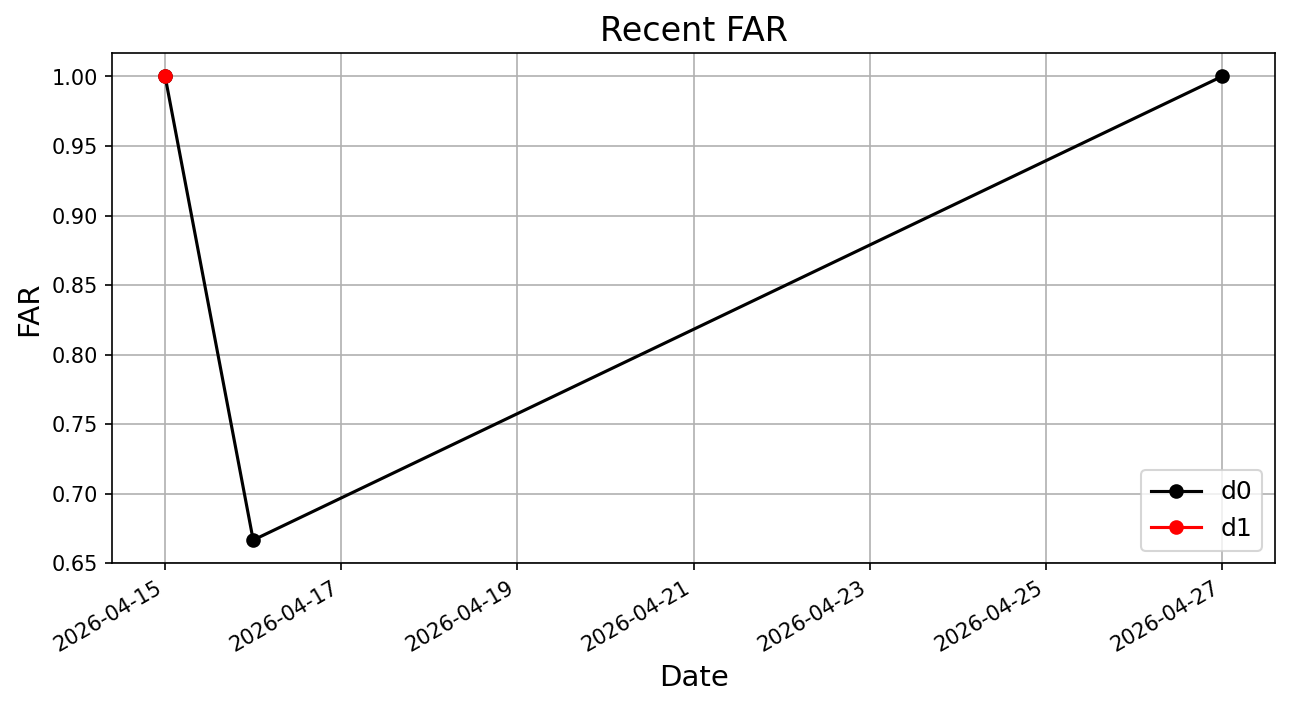
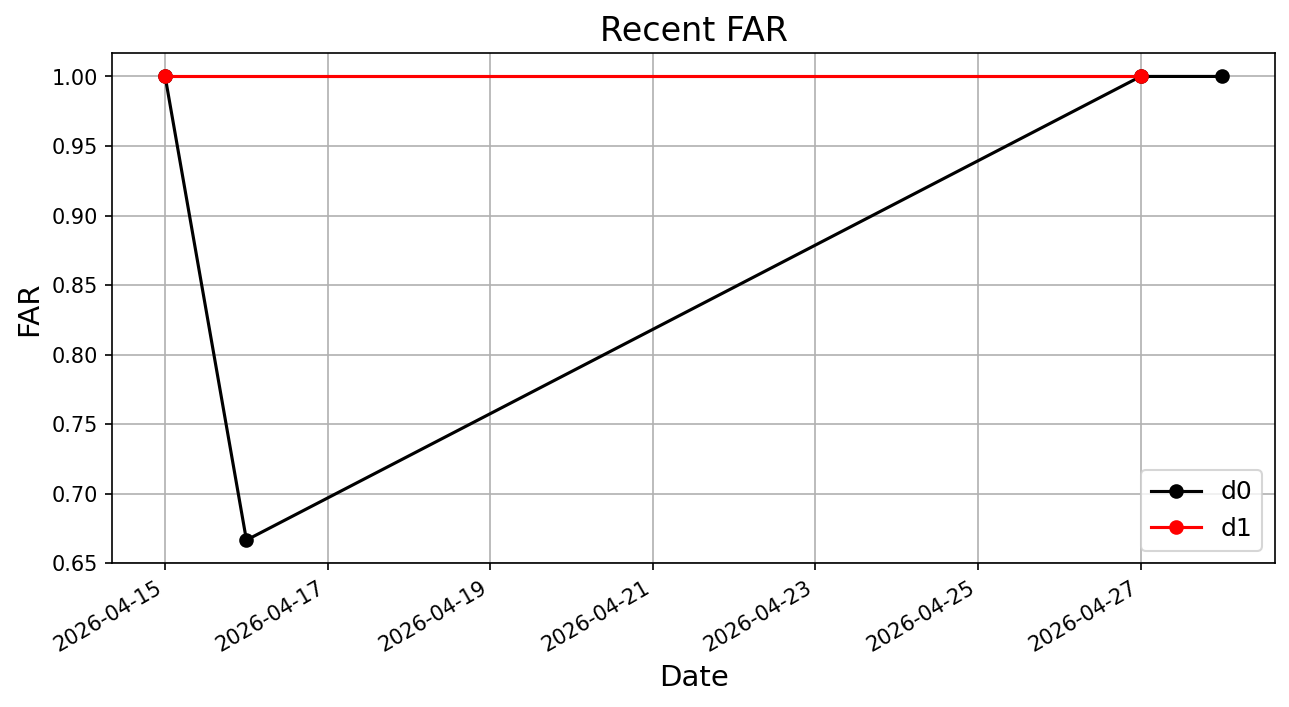
update bins to 65 and 90th percentil - Apr 29, 2026 Forecast

diff --git a/docs/build/html/searchindex.js b/docs/build/html/searchindex.js
@@ -1,1 +1,1 @@
-Search.setIndex({"alltitles":{"Code Structure":[[3,"code-structure"]],"Contact":[[0,"contact"]],"Contents:":[[0,null]],"Daily Forecast Workflow":[[1,"daily-forecast-workflow"]],"Data Sources":[[0,"data-sources"]],"Domain":[[1,"domain"]],"Dry Lightning Definition":[[0,"dry-lightning-definition"]],"Dry Lightning Forecast":[[0,null]],"Ecozone-Based Binning":[[1,"ecozone-based-binning"]],"Forecast Process":[[1,null]],"Future Enhancements":[[1,"future-enhancements"]],"Interactive Forecast Map":[[0,"interactive-forecast-map"]],"Key Modules":[[3,"key-modules"]],"Map Interpretation":[[0,"map-interpretation"]],"Maps":[[0,"maps"]],"Model Validation":[[4,"model-validation"]],"Overall Verification Values":[[4,"overall-verification-values"]],"Project Overview":[[0,"project-overview"]],"Quick Links":[[0,"quick-links"]],"Recent Validation Plots":[[4,"recent-validation-plots"]],"References":[[2,null]],"Statistics":[[4,"id1"]],"Technical Documentation":[[3,null]],"Training":[[0,"training"],[1,"training"]],"Validation Scripts":[[4,"validation-scripts"]],"Verification":[[4,null]]},"docnames":["index","process","references","technical","validation"],"envversion":{"sphinx":66,"sphinx.domains.c":3,"sphinx.domains.changeset":1,"sphinx.domains.citation":1,"sphinx.domains.cpp":9,"sphinx.domains.index":1,"sphinx.domains.javascript":3,"sphinx.domains.math":2,"sphinx.domains.python":4,"sphinx.domains.rst":2,"sphinx.domains.std":2},"filenames":["index.rst","process.rst","references.rst","technical.rst","validation.rst"],"indexentries":{},"objects":{},"objnames":{},"objtypes":{},"terms":{"00am":0,"10km":[0,1],"12utc":0,"200km":1,"2024gl110381":2,"500hpa":1,"5mm":0,"700hpa":1,"850hpa":1,"A":[1,2],"All":1,"An":1,"But":1,"By":0,"Each":1,"For":0,"I":[1,4],"Is":2,"More":2,"No":1,"Some":0,"The":[0,1],"These":[1,4],"They":4,"This":[0,1],"We":1,"With":0,"abstract":2,"account":[1,4],"acquisit":[1,3],"add":4,"addit":1,"agrformet":2,"agricultur":2,"air":0,"al":[1,2],"alarm":4,"along":0,"also":[1,4],"analys":0,"analysi":1,"ananlysi":1,"ani":0,"anoth":1,"api":3,"appli":2,"approach":2,"around":0,"assess":4,"assign":1,"assum":0,"atmospher":1,"avail":[1,2],"avalanch":1,"averag":4,"bae":2,"base":[0,2,4],"becaus":2,"becom":2,"begin":1,"bias":4,"bin":[0,4],"border":1,"buchart":0,"buffer":1,"ca":0,"calcul":1,"can":0,"canada":[0,1,2],"canadian":[0,1],"cape":1,"categor":1,"categori":[0,1],"cell":1,"cg":2,"chang":[0,4],"classif":1,"cldn":[0,4],"click":0,"clim_data":3,"climat":0,"climatolog":[2,3],"closer":1,"code":0,"coincid":1,"color":1,"com":2,"combin":1,"common":2,"communic":1,"comparison":4,"complet":1,"complex":1,"condens":1,"confid":1,"consider":[0,1],"consist":1,"construct":0,"contain":0,"content":[],"continu":4,"contunu":[],"convect":1,"convert":1,"cordillera":1,"count":4,"cover":1,"creat":4,"critic":4,"csi":4,"current":0,"cwfis":0,"d0":[0,4],"d1":[0,4],"daili":[0,3,4],"data":[1,3,4],"datamart":0,"dataset":1,"datasourc":0,"day":[0,1,4],"dd":0,"defauli":[],"default":0,"defin":[1,4],"definit":[1,4],"depreci":3,"depress":1,"descript":0,"detail":[0,3],"detect":[0,4],"determin":1,"dewpoint":1,"differ":1,"difficulti":4,"discrimin":1,"display":1,"document":0,"doi":2,"domain":0,"done":1,"dot":1,"download":[1,3],"dri":[1,2],"due":1,"dure":[1,4],"dx":2,"earli":4,"eccc":0,"ecoxzon":1,"ecozon":0,"email":0,"energi":1,"enhanc":0,"enlarg":0,"ensur":1,"environ":0,"et":[1,2],"everi":[0,1],"expect":0,"extens":1,"fals":4,"far":4,"favour":1,"fed":1,"feedback":0,"file":1,"final":1,"finland":2,"fire":2,"fit":1,"follow":[0,1],"forecast":[3,4],"forest":[1,2],"format":1,"framework":[],"full":1,"function":3,"futur":0,"gather":[0,1],"gc":0,"general":1,"generat":[1,2,3,4],"geometri":2,"geophys":2,"get":1,"github":0,"grab":1,"grey":0,"grid":1,"handl":3,"heavili":1,"hideki":4,"high":2,"highest":0,"ho":2,"home":1,"howev":[1,4],"hrdps":[0,1],"hss":4,"http":2,"https":[0,2],"ignit":2,"imag":[],"includ":[1,4],"inclus":1,"incorpor":[],"increas":[1,2],"index":[1,4],"indic":1,"induc":2,"inform":[0,3],"instabl":0,"interact":1,"j":2,"jam2482":2,"jin":2,"jinil":2,"journal":2,"k":1,"key":0,"l":2,"larjavaara":2,"last":4,"launch":[0,1],"lazi":1,"lcl":1,"lda":1,"learn":[1,2],"less":0,"letter":2,"level":1,"li":1,"liam":0,"lift":1,"light":0,"lightn":[1,2,4],"like":[1,4],"likelihood":0,"limit":1,"linear":1,"literatur":[],"load":0,"locat":1,"look":1,"low":[0,1],"lower":1,"lowest":1,"m":2,"machin":[1,2],"map":1,"maritim":1,"mask":1,"may":4,"mean":1,"meteorolog":2,"method":1,"metric":4,"minim":0,"model":[0,1,2,3],"moder":[0,1],"modul":0,"moist":1,"moment":1,"mt":0,"name":1,"nationwid":1,"necessari":1,"network":0,"next":1,"northen":2,"note":4,"notic":4,"now":1,"nrcan":0,"null":0,"number":[1,4],"numer":1,"observ":[0,1,4],"occur":1,"occurr":[0,1],"one":1,"onli":[1,4],"onlin":1,"orang":0,"order":1,"org":2,"outcom":4,"output":1,"outsid":0,"overal":0,"pacif":1,"page":[1,4],"perform":4,"period":[0,1],"place":0,"plan":4,"pleas":[0,1],"plot":0,"plot_valid":4,"png":1,"pod":4,"potenti":[1,2],"precipit":[0,1],"predict":[1,2],"preprocess":3,"proabil":1,"probabili":1,"probabilit":1,"probabl":[0,1,2,4],"process":[0,3],"provid":1,"pull":0,"py":4,"question":0,"rackhun":2,"radius":1,"rain":[0,1],"random":1,"rate":1,"ratio":4,"raw":1,"rdps":[0,1],"reach":1,"recent":0,"red":1,"refer":0,"refin":4,"region":[0,1],"repositori":0,"requir":1,"research":2,"resid":1,"restructuredtext":[],"result":4,"retriev":1,"rf":1,"risk":1,"rncan":0,"rorig":[1,2],"run":4,"s":[0,1],"sampl":1,"save":1,"score":4,"script":[0,3],"season":4,"see":3,"select":1,"separ":1,"short":4,"shown":1,"similar":1,"simon":2,"sinc":4,"sit":1,"site":0,"size":1,"skill":4,"son":2,"sort":1,"sound":[0,1],"sourc":3,"specif":1,"ssrn":2,"stat":4,"station":[0,1],"statist":1,"stike":[1,4],"storag":3,"store":[0,1,4],"straitif":1,"strike":[0,1,4],"structur":0,"success":4,"suffici":1,"surfac":[0,1],"sweat":1,"syntax":[],"taiga":1,"take":[0,1],"tasmania":2,"technic":0,"teh":1,"temperatur":1,"terrain":1,"three":[1,4],"threshold":1,"thunderstorm":2,"thus":1,"tif":1,"top":1,"total":1,"train":3,"trainin":[],"trend":4,"two":4,"type":[],"uniqu":1,"updat":[0,4],"upper":0,"use":[0,1],"utc":[0,1],"util":3,"valid":[0,3],"validate_d0":4,"validate_d1":4,"valu":[0,1],"variabl":1,"verif":[0,3],"versus":4,"vertic":2,"viewer":0,"visual":4,"wang":2,"warrant":1,"weather":[0,1],"weight":1,"welcom":0,"well":1,"wet":1,"wickramasingh":[1,2],"wildfir":2,"within":[0,1],"workflow":0,"year":0,"yellow":0,"yesterday":0,"yet":[],"yoon":2},"titles":["Dry Lightning Forecast","Forecast Process","References","Technical Documentation","Verification"],"titleterms":{"base":1,"bin":1,"code":3,"contact":0,"content":0,"csv":[],"daili":1,"data":0,"definit":0,"document":3,"domain":1,"dri":0,"drylightningforecast":[],"ecozon":1,"enhanc":1,"forecast":[0,1],"futur":1,"interact":0,"interpret":0,"key":3,"lightn":0,"link":0,"literatur":[],"map":0,"model":4,"modul":3,"overal":4,"overview":0,"plot":4,"predict":[],"process":1,"project":0,"quick":0,"recent":4,"refer":2,"result":[],"script":4,"sourc":0,"static":[],"statist":4,"structur":3,"technic":3,"train":[0,1],"valid":4,"validation_mean_stat":[],"valu":4,"verif":4,"workflow":1}})
+Search.setIndex({"alltitles":{"Code Structure":[[3,"code-structure"]],"Contact":[[0,"contact"]],"Contents:":[[0,null]],"Daily Forecast Workflow":[[1,"daily-forecast-workflow"]],"Data Sources":[[0,"data-sources"]],"Domain":[[1,"domain"]],"Dry Lightning Definition":[[0,"dry-lightning-definition"]],"Dry Lightning Forecast":[[0,null]],"Ecozone-Based Binning":[[1,"ecozone-based-binning"]],"Forecast Process":[[1,null]],"Future Enhancements":[[1,"future-enhancements"]],"Interactive Forecast Map":[[0,"interactive-forecast-map"]],"Key Modules":[[3,"key-modules"]],"Map Interpretation":[[0,"map-interpretation"]],"Maps":[[0,"maps"]],"Model Validation":[[4,"model-validation"]],"Overall Verification Values":[[4,"overall-verification-values"]],"Project Overview":[[0,"project-overview"]],"Quick Links":[[0,"quick-links"]],"Recent Validation Plots":[[4,"recent-validation-plots"]],"References":[[2,null]],"Statistics":[[4,"id1"]],"Technical Documentation":[[3,null]],"Training":[[0,"training"],[1,"training"]],"Validation Scripts":[[4,"validation-scripts"]],"Verification":[[4,null]]},"docnames":["index","process","references","technical","validation"],"envversion":{"sphinx":66,"sphinx.domains.c":3,"sphinx.domains.changeset":1,"sphinx.domains.citation":1,"sphinx.domains.cpp":9,"sphinx.domains.index":1,"sphinx.domains.javascript":3,"sphinx.domains.math":2,"sphinx.domains.python":4,"sphinx.domains.rst":2,"sphinx.domains.std":2},"filenames":["index.rst","process.rst","references.rst","technical.rst","validation.rst"],"indexentries":{},"objects":{},"objnames":{},"objtypes":{},"terms":{"00am":0,"10km":[0,1],"12utc":0,"200km":1,"2024gl110381":2,"500hpa":1,"5mm":0,"700hpa":1,"850hpa":1,"A":[1,2],"All":1,"An":1,"But":1,"By":0,"Each":1,"For":0,"I":[1,4],"Is":2,"More":2,"No":1,"Some":0,"The":[0,1],"These":[1,4],"They":4,"This":[0,1],"We":1,"With":0,"abstract":2,"account":[1,4],"acquisit":[1,3],"add":4,"addit":1,"agrformet":2,"agricultur":2,"air":0,"al":[1,2],"alarm":4,"along":0,"also":[1,4],"analys":0,"analysi":1,"ananlysi":1,"ani":0,"anoth":1,"api":3,"appli":2,"approach":2,"around":0,"assess":4,"assign":1,"assum":0,"atmospher":1,"avail":[1,2],"avalanch":1,"averag":4,"bae":2,"base":[0,2,4],"becaus":2,"becom":2,"begin":1,"bias":4,"bin":[0,4],"border":1,"buchart":0,"buffer":1,"ca":0,"calcul":1,"can":0,"canada":[0,1,2],"canadian":[0,1],"cape":1,"categor":1,"categori":[0,1],"cell":1,"cg":2,"chang":[0,4],"classif":1,"cldn":[0,4],"click":0,"clim_data":3,"climat":0,"climatolog":[2,3],"closer":1,"code":0,"coincid":1,"color":1,"com":2,"combin":1,"common":2,"communic":1,"comparison":4,"complet":1,"complex":1,"condens":1,"confid":1,"consider":[0,1],"consist":1,"construct":0,"contain":0,"content":[],"continu":4,"contunu":[],"convect":1,"convert":1,"cordillera":1,"count":4,"cover":1,"creat":4,"critic":4,"csi":4,"current":0,"cwfis":0,"d0":[0,4],"d1":[0,4],"daili":[0,3,4],"data":[1,3,4],"datamart":0,"dataset":1,"datasourc":0,"day":[0,1,4],"dd":0,"defauli":[],"default":0,"defin":[1,4],"definit":[1,4],"depreci":3,"depress":1,"descript":0,"detail":[0,3],"detect":[0,4],"determin":1,"dewpoint":1,"differ":1,"difficulti":4,"discrimin":1,"display":1,"document":0,"doi":2,"domain":0,"done":1,"dot":1,"download":[1,3],"dri":[1,2],"due":1,"dure":[1,4],"dx":2,"earli":4,"eccc":0,"ecoxzon":1,"ecozon":0,"email":0,"energi":1,"enhanc":0,"enlarg":0,"ensur":1,"environ":0,"et":[1,2],"everi":[0,1],"expect":0,"extens":1,"fals":4,"far":4,"favour":1,"fed":1,"feedback":0,"file":1,"final":1,"finland":2,"fire":2,"fit":1,"follow":[0,1],"forecast":[3,4],"forest":[1,2],"format":1,"framework":[],"full":1,"function":3,"futur":0,"gather":[0,1],"gc":0,"general":1,"generat":[1,2,3,4],"geometri":2,"geophys":2,"get":1,"github":0,"grab":1,"grey":0,"grid":1,"handl":3,"heavili":1,"hideki":4,"high":2,"highest":0,"ho":2,"home":1,"howev":[1,4],"hrdps":[0,1],"hss":4,"http":2,"https":[0,2],"ignit":2,"imag":[],"includ":[1,4],"inclus":1,"incorpor":[],"increas":[1,2],"index":[1,4],"indic":1,"induc":2,"inform":[0,3],"instabl":0,"interact":1,"j":2,"jam2482":2,"jin":2,"jinil":2,"journal":2,"k":1,"key":0,"l":2,"larjavaara":2,"last":4,"launch":[0,1],"lazi":1,"lcl":1,"lda":1,"learn":[1,2],"less":0,"letter":2,"level":1,"li":1,"liam":0,"lift":1,"light":0,"lightn":[1,2,4],"like":[1,4],"likelihood":0,"limit":1,"linear":1,"literatur":[],"load":0,"locat":1,"look":1,"low":[0,1],"lower":1,"lowest":1,"m":2,"machin":[1,2],"map":1,"maritim":1,"mask":1,"may":4,"mean":1,"meteorolog":2,"method":1,"metric":4,"minim":0,"model":[0,1,2,3],"moder":[0,1],"modul":0,"moist":1,"moment":1,"mt":0,"name":1,"nationwid":1,"necessari":1,"network":0,"next":1,"northen":2,"note":4,"notic":4,"now":1,"nrcan":0,"null":0,"number":[1,4],"numer":1,"observ":[0,1,4],"occur":1,"occurr":[0,1],"one":1,"onli":[1,4],"onlin":1,"orang":0,"order":1,"org":2,"outcom":4,"output":1,"outsid":0,"overal":0,"pacif":1,"page":[1,4],"perform":4,"period":[0,1],"place":0,"plan":4,"pleas":[0,1],"plot":0,"plot_valid":4,"png":1,"pod":4,"potenti":[1,2],"precipit":[0,1],"predict":[1,2],"preprocess":3,"proabil":1,"probabili":1,"probabilit":1,"probabl":[0,1,2,4],"process":[0,3],"provid":1,"pull":0,"py":[1,4],"question":0,"rackhun":2,"radius":1,"rain":[0,1],"random":1,"rate":1,"ratio":4,"raw":1,"rdps":[0,1],"reach":1,"recent":0,"red":1,"refer":0,"refin":4,"region":[0,1],"repositori":0,"requir":1,"research":2,"resid":1,"restructuredtext":[],"result":4,"retriev":1,"rf":1,"risk":1,"rncan":0,"rorig":[1,2],"run":4,"s":[0,1],"sampl":1,"save":1,"score":4,"script":[0,3],"season":4,"see":3,"select":1,"separ":1,"short":4,"shown":1,"similar":1,"simon":2,"sinc":4,"sit":1,"site":0,"size":1,"skill":4,"son":2,"sort":1,"sound":[0,1],"sourc":3,"specif":1,"ssrn":2,"stat":4,"station":[0,1],"station_lightning_lda":1,"statist":1,"stike":[1,4],"storag":3,"store":[0,1,4],"straitif":1,"strike":[0,1,4],"structur":0,"success":4,"suffici":1,"surfac":[0,1],"sweat":1,"syntax":[],"taiga":1,"take":[0,1],"tasmania":2,"technic":0,"teh":1,"temperatur":1,"terrain":1,"three":[1,4],"threshold":1,"thunderstorm":2,"thus":1,"tif":1,"top":1,"total":1,"train":3,"trainin":[],"trend":4,"two":4,"type":[],"uniqu":1,"updat":[0,4],"upper":0,"use":[0,1],"utc":[0,1],"util":3,"valid":[0,3],"validate_d0":4,"validate_d1":4,"valu":[0,1],"variabl":1,"verif":[0,3],"versus":4,"vertic":2,"viewer":0,"visual":4,"wang":2,"warrant":1,"weather":[0,1],"weight":1,"welcom":0,"well":1,"wet":1,"wickramasingh":[1,2],"wildfir":2,"within":[0,1],"workflow":0,"year":0,"yellow":0,"yesterday":0,"yet":[],"yoon":2},"titles":["Dry Lightning Forecast","Forecast Process","References","Technical Documentation","Verification"],"titleterms":{"base":1,"bin":1,"code":3,"contact":0,"content":0,"csv":[],"daili":1,"data":0,"definit":0,"document":3,"domain":1,"dri":0,"drylightningforecast":[],"ecozon":1,"enhanc":1,"forecast":[0,1],"futur":1,"interact":0,"interpret":0,"key":3,"lightn":0,"link":0,"literatur":[],"map":0,"model":4,"modul":3,"overal":4,"overview":0,"plot":4,"predict":[],"process":1,"project":0,"quick":0,"recent":4,"refer":2,"result":[],"script":4,"sourc":0,"static":[],"statist":4,"structur":3,"technic":3,"train":[0,1],"valid":4,"validation_mean_stat":[],"valu":4,"verif":4,"workflow":1}})

diff --git a/docs/build/html/process.html b/docs/build/html/process.html
@@ -264,9 +264,10 @@ These variables are:</p>
 <p>Beginning in 2018, sounding data from every location in Canada, and those within 200km of the Canadian border were downloaded. Additionally, precipitation observation from coincident stations and lightning strike data within 10km of each station were also stored.
 A different model is trained for each ecozone in Canada. The data is determined by which sounding launch locations reside in each ecozone or sit within a 200km buffer. Probabilites are then assigned to each model grid cell that sits in an ecozone based on the variable gather from raw model output. No surface variables were selected due to lower confidence in these values in complex terrain.</p>
 <p>Finally, the proabilities are binned into three categories:
-- Low: the lowest 50% of probabilities
-- Moderate: the next 30% of probabilities
-- Considerable: the top 20% of probabilities</p>
+- Low: the lowest 65% of probabilities
+- Moderate: the next 25% of probabilities
+- Considerable: the top 10% of probabilities</p>
+<p>This is defined in <cite>./PROCESS/station_lightning_lda.py</cite>.</p>
 <section id="domain">
 <h2>Domain<a class="headerlink" href="#domain" title="Link to this heading">¶</a></h2>
 <p>The forecast domain covers the ecozones of Canada shown in the map below.

diff --git a/docs/build/html/validation.html b/docs/build/html/validation.html
@@ -282,17 +282,17 @@ However, I have had difficulty in defining some of these metric in a three bin f
 <tbody>
 <tr class="row-even"><td><p>d0</p></td>
 <td><p>0.5</p></td>
-<td><p>0.89</p></td>
-<td><p>0.11</p></td>
+<td><p>0.92</p></td>
+<td><p>0.08</p></td>
 <td><p>2.5</p></td>
-<td><p>0.13</p></td>
+<td><p>0.1</p></td>
 </tr>
 <tr class="row-odd"><td><p>d1</p></td>
 <td><p>0.0</p></td>
 <td><p>1.0</p></td>
 <td><p>0.0</p></td>
 <td><p>1.0</p></td>
-<td><p>-0.1</p></td>
+<td><p>-0.05</p></td>
 </tr>
 </tbody>
 </table>

diff --git a/VALIDATE/png_plot_validate.py b/VALIDATE/png_plot_validate.py
@@ -125,17 +125,17 @@ def plot_multipanel(stats_long, title_suffix, filename):
                 marker="o",
                 linewidth=2,
                 label=vtype,
-                color="k" if vtype == "d0" else "green",
+                color="k" if vtype == "d0" else "red",
             )
 
         ax.set_ylabel(metric, fontsize=14)
         #ax.grid(True)
 
         if ax is axes[0]:
-            ax.legend(fontsize=15)
+            ax.legend(fontsize=20, loc='upper center', ncol=2, bbox_to_anchor=(0.5, 1.3))
 
     axes[-1].set_xlabel("Date", fontsize=14)
-    fig.suptitle(f"Validation Metrics {title_suffix}", fontsize=18)
+    fig.suptitle(f"Validation Metrics {title_suffix}", fontsize=24)
 
     fig.autofmt_xdate()
     plt.tight_layout(rect=[0, 0, 1, 0.97])

diff --git a/PROCESS/station_lightning_lda.py b/PROCESS/station_lightning_lda.py
@@ -28,7 +28,7 @@ from context import utils_dir
 
 #%%
 ##### USER INPUT #####
-zone_select = "Prairies"
+zone_select = "Taiga Shield East"
 save_dir = "./FINAL_MODELS/"
 ##### END USER INPUT #####
 
@@ -251,7 +251,7 @@ print(np.mean(y_prob[:, 1]), np.mean(y_prob[:, 2]))
 # final bit is so save terciles for each prediction 
 # class into a common dataframe
 csv_path = Path("./FINAL_MODELS/pred_terciles.csv")
-terciles = [50, 80]
+terciles = [65, 90]
 
 new_row = {
     "eco_zone": f"{zone_select.replace(" ", "_")}",

diff --git a/FORECAST/d1_daily_fcst.py b/FORECAST/d1_daily_fcst.py
@@ -479,7 +479,7 @@ plt.title(
 plt.text(
     0.99, 0.99,
     f"Model: {model_select.upper()} | Point-based classification\n"
-    "Weighted 50th and 80th percentile",
+    "Weighted 65th and 90th percentile",
     transform=ax.transAxes,
     ha="right",
     va="top",

diff --git a/FORECAST/daily_fcst.py b/FORECAST/daily_fcst.py
@@ -482,7 +482,7 @@ plt.title(
 plt.text(
     0.99, 0.99,
     f"Model: {model_select.upper()} | Point-based classification\n"
-    "Weighted 50th and 80th percentile",
+    "Weighted 65th and 90th percentile",
     transform=ax.transAxes,
     ha="right",
     va="top",

diff --git a/docs/source/process.rst b/docs/source/process.rst
@@ -20,9 +20,11 @@ Beginning in 2018, sounding data from every location in Canada, and those within
 A different model is trained for each ecozone in Canada. The data is determined by which sounding launch locations reside in each ecozone or sit within a 200km buffer. Probabilites are then assigned to each model grid cell that sits in an ecozone based on the variable gather from raw model output. No surface variables were selected due to lower confidence in these values in complex terrain. 
 
 Finally, the proabilities are binned into three categories:
-- Low: the lowest 50% of probabilities
-- Moderate: the next 30% of probabilities
-- Considerable: the top 20% of probabilities
+- Low: the lowest 65% of probabilities
+- Moderate: the next 25% of probabilities
+- Considerable: the top 10% of probabilities
+
+This is defined in `./PROCESS/station_lightning_lda.py`.
 
 Domain
 ------
